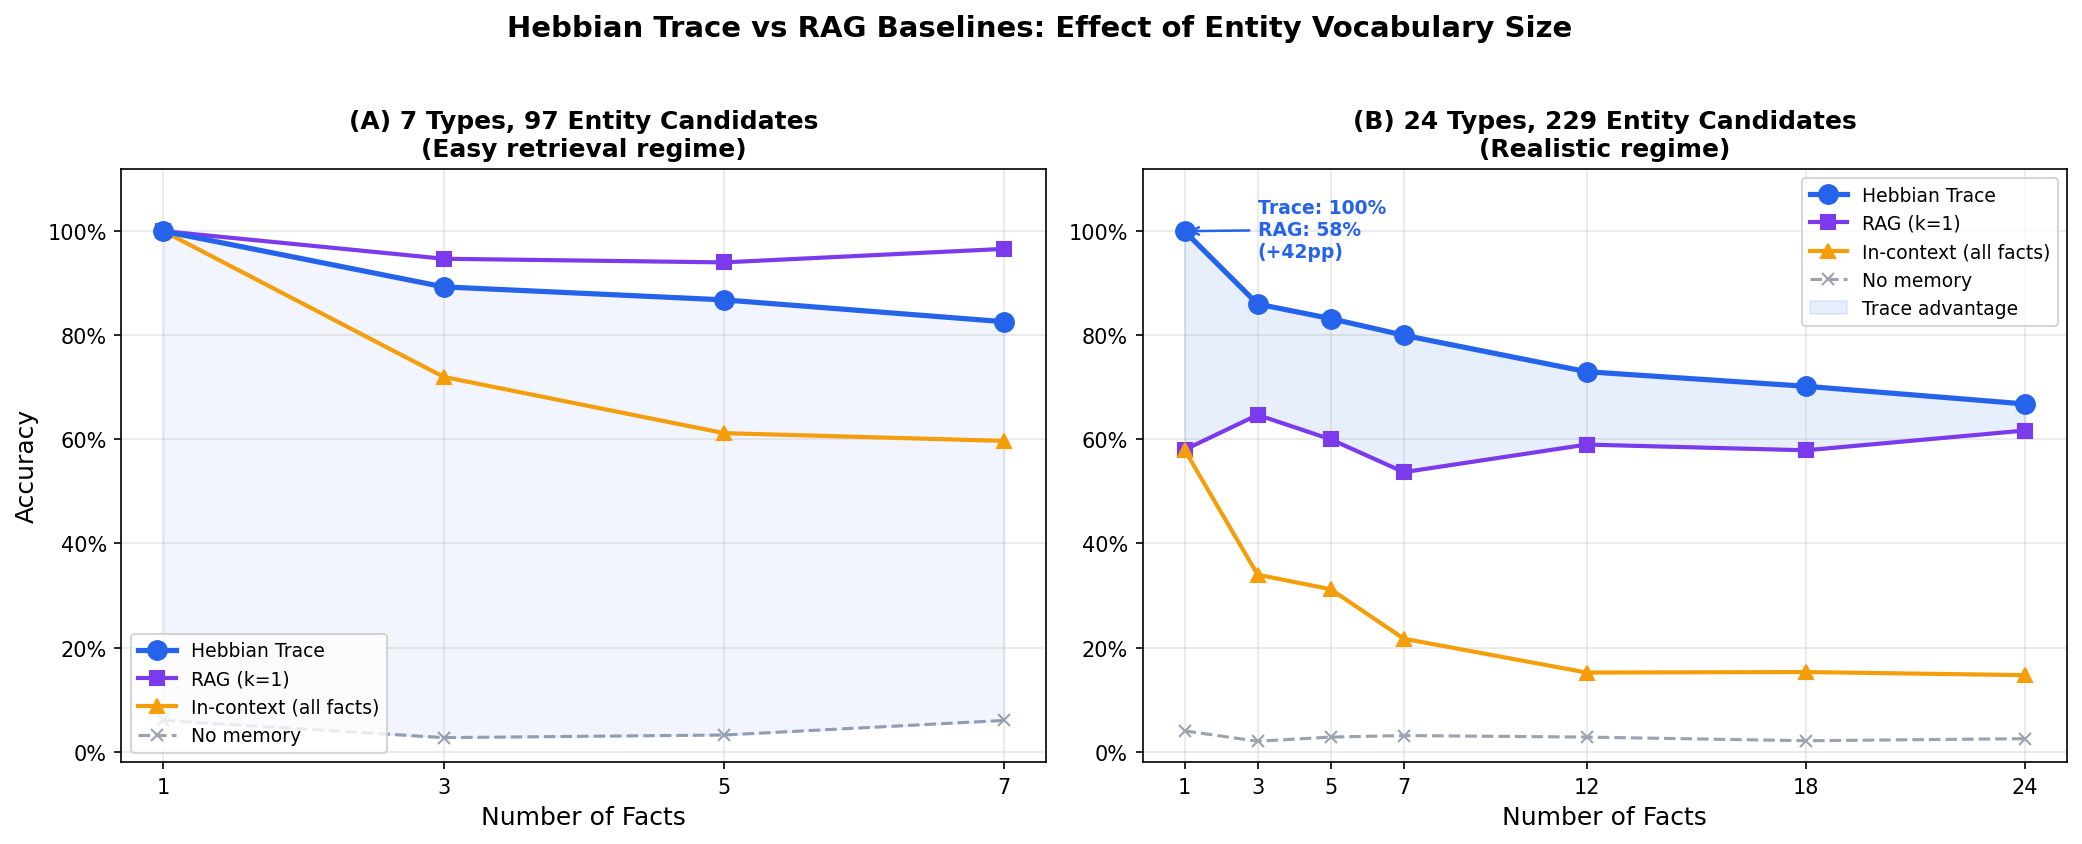
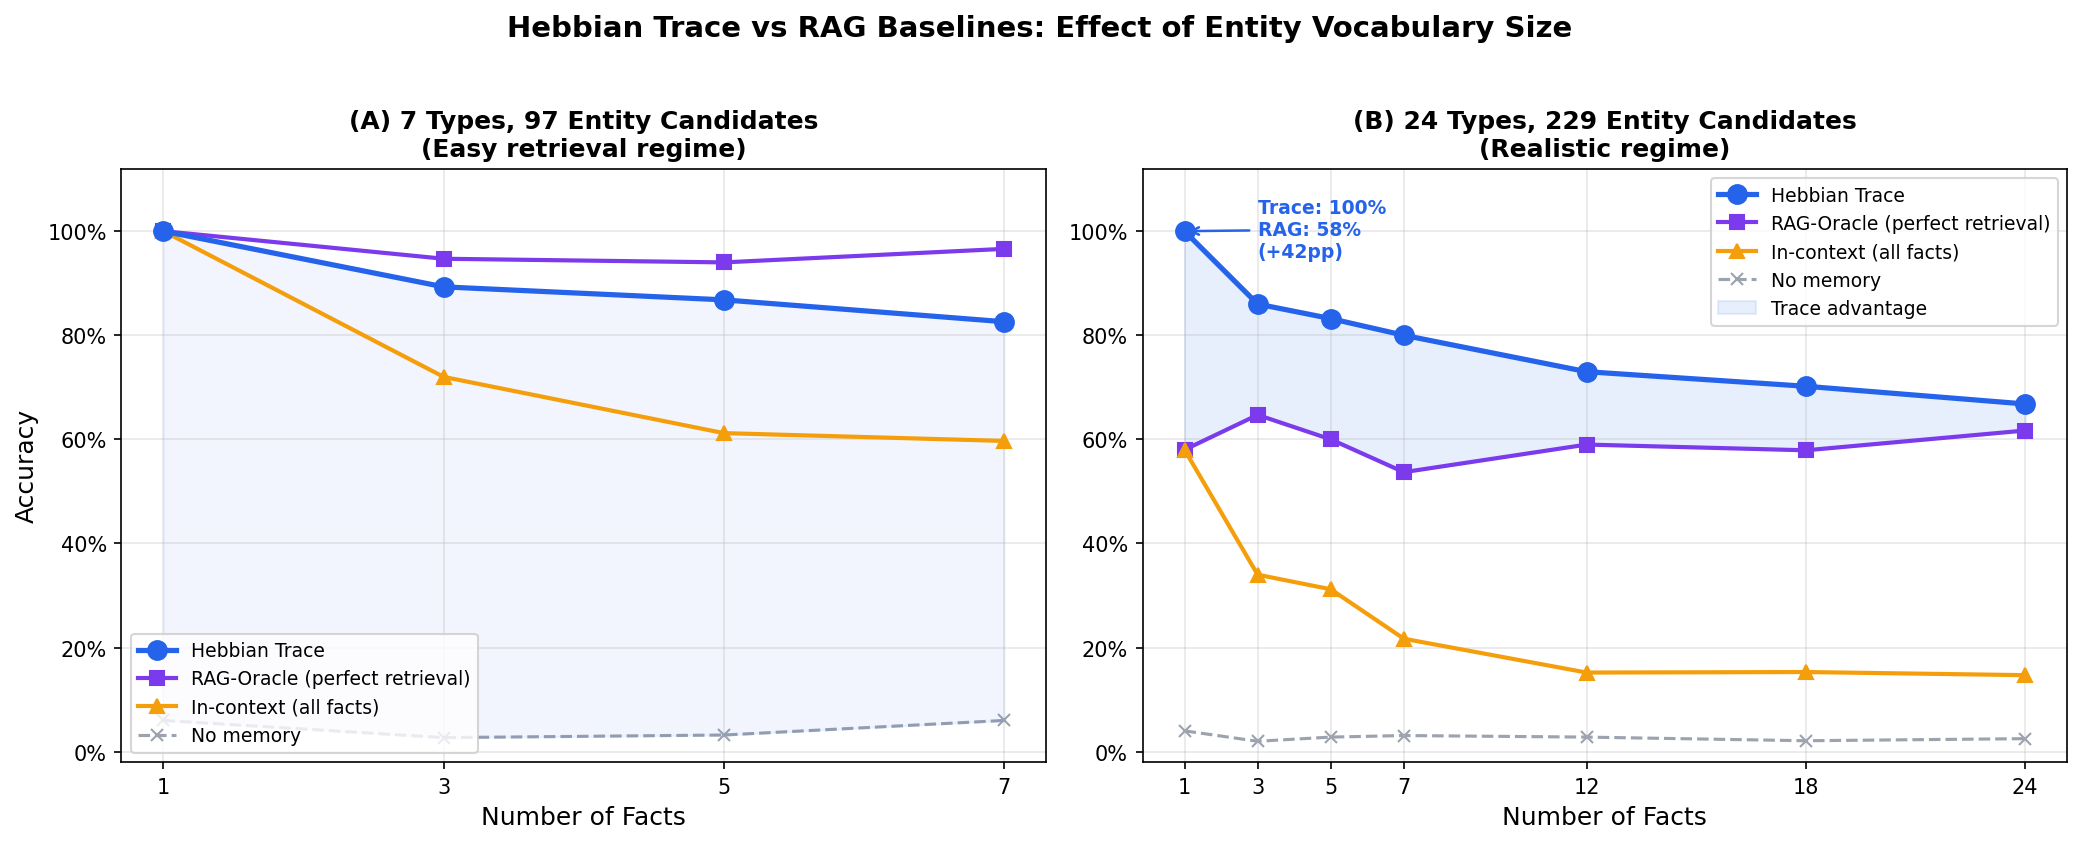
rag compression

Changed region(s): [[0.8117, 0.2156, 0.999, 0.4005], [0.0937, 0.8009, 0.2185, 0.8318], [0.1873, 0.8626, 0.2185, 0.8934]]

diff --git a/figures/generate.py b/figures/generate.py
@@ -354,7 +354,7 @@ def generate_rag_comparison():
     ax1.plot(n_facts_7, trace_7, 'o-', color='#2563eb', linewidth=2.5,
              markersize=9, label='Hebbian Trace', zorder=3)
     ax1.plot(n_facts_7, rag_7, 's-', color='#7c3aed', linewidth=2,
-             markersize=7, label='RAG (k=1)', zorder=2)
+             markersize=7, label='RAG-Oracle (perfect retrieval)', zorder=2)
     ax1.plot(n_facts_7, in_ctx_7, '^-', color='#f59e0b', linewidth=2,
              markersize=7, label='In-context (all facts)', zorder=2)
     ax1.plot(n_facts_7, no_mem_7, 'x--', color='#9ca3af', linewidth=1.5,
@@ -381,7 +381,7 @@ def generate_rag_comparison():
     ax2.plot(n_facts_24, trace_24, 'o-', color='#2563eb', linewidth=2.5,
              markersize=9, label='Hebbian Trace', zorder=3)
     ax2.plot(n_facts_24, rag_24, 's-', color='#7c3aed', linewidth=2,
-             markersize=7, label='RAG (k=1)', zorder=2)
+             markersize=7, label='RAG-Oracle (perfect retrieval)', zorder=2)
     ax2.plot(n_facts_24, in_ctx_24, '^-', color='#f59e0b', linewidth=2,
              markersize=7, label='In-context (all facts)', zorder=2)
     ax2.plot(n_facts_24, no_mem_24, 'x--', color='#9ca3af', linewidth=1.5,

diff --git a/paper.tex b/paper.tex
@@ -281,7 +281,7 @@ With $\alpha{=}50$ and pattern separation ($8\times$, $k{=}16$), Phi-2 achieves 
   \begin{subfigure}[t]{0.48\textwidth}
     \centering
     \includegraphics[width=\textwidth]{figures/rag_comparison.png}
-    \caption{Comparison with RAG baseline (k=1 retrieval). In the realistic 24-type regime (229 entity candidates), the trace outperforms RAG by up to +42pp.}
+    \caption{Comparison with RAG-Oracle (perfect retrieval upper bound). In the easy 7-type regime, Oracle RAG exceeds the trace; in the realistic 24-type regime (229 entity candidates), the trace outperforms Oracle RAG by up to +42pp, as concept-addressed retrieval is phrasing-invariant while RAG degrades with vocabulary size.}
     \label{fig:rag}
   \end{subfigure}
   \caption{Cross-context retrieval performance on GPT-2 Small.}
